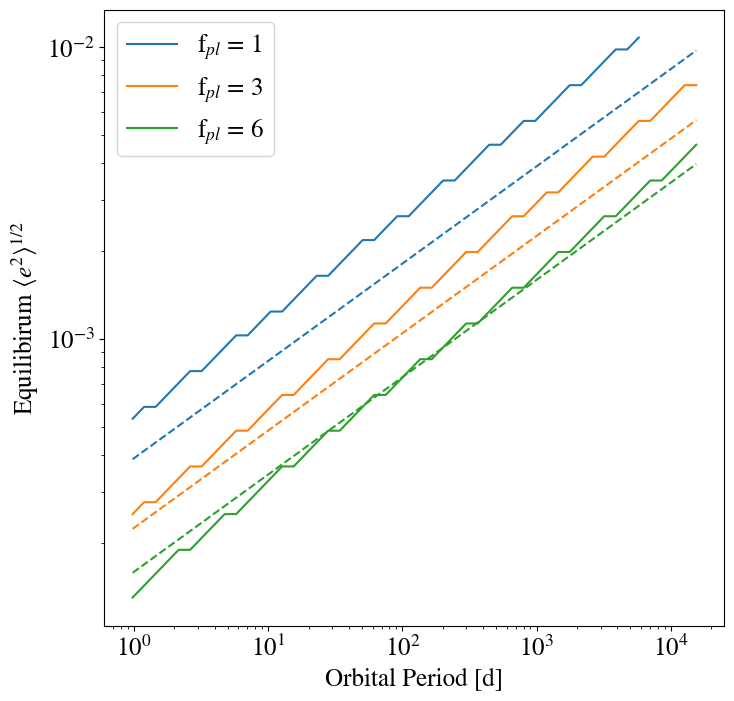
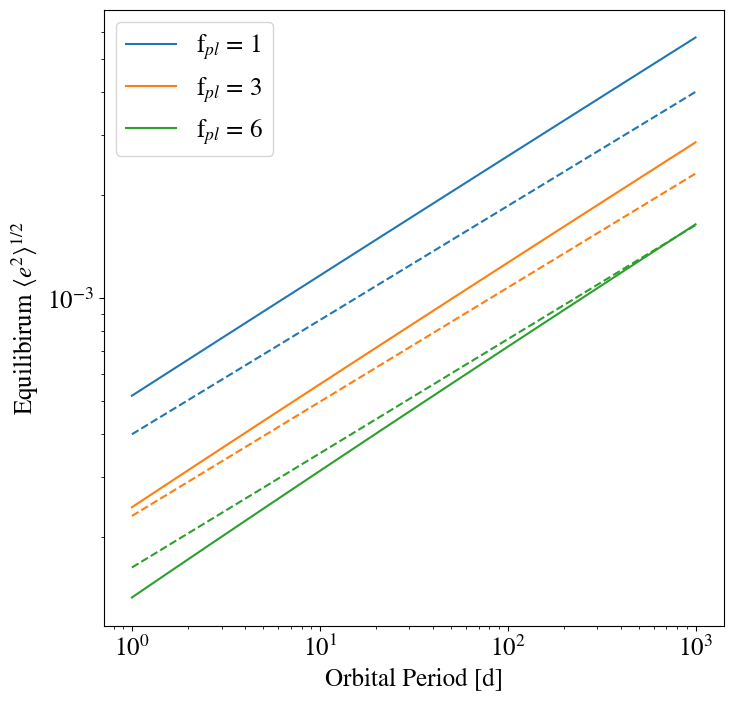
Calculate relaxation and collision time crossing properly

diff --git a/makeFig.py b/makeFig.py
@@ -36,9 +36,9 @@ def lnLam(b1, b2):
     return quad(lambda x: 1/x, b1, b2)[0]
 
 sigma1 = 6
-f_disk = 1
+f_disk = 0.13
 h = 1
-alpha = 1
+alpha = 3/2
 
 # Values for M stars from Backus + Quinn 2016
 q = 0.59
@@ -60,12 +60,12 @@ def e_i(e_h):
 def e_h(e):
     return e*(mp/(3*m_central))**(-1/3)
 
-a_vals_au = np.logspace(-2, 0.5)
-e_h_vals = np.logspace(0, 2)
+t_orbit_d = np.logspace(0, 3)
+t_orbit = (t_orbit_d*u.d).to(u.s).value
+a_vals = pt.sma(t_orbit, m_central)
+a_vals_au = (a_vals*u.cm).to(u.AU).value
 
-a_vals = (a_vals_au*u.AU).to(u.cm).value
-t_orbit = pt.t_orb(a_vals, m_central)
-t_orbit_d = (t_orbit*u.s).to(u.d).value
+e_h_vals = np.logspace(0, 2)
 
 sigma_pl = pt.sigma_pl(alpha, sigma1, a_vals_au, f_disk)
 
@@ -77,47 +77,28 @@ def plot_trel_tcoll_eq_gf():
 	if not clobber and os.path.exists(file_str):
 		return
 
-	t_relax_vals = np.empty((len(a_vals_au), len(e_h_vals)))
-	t_coll_vals = np.empty((len(a_vals_au), len(e_h_vals)))
-	t_eq_e_vals = np.empty((len(f_pl), len(a_vals_au)))
+	def func(x, sigma_pl, a_val, f_pl_val):
+	    i_std = 10**x/2
+	    vk = np.sqrt(G.cgs.value*m_central/a_val)
+	    v = np.sqrt((10**x)**2 + i_std**2)*vk
+	    vesc = np.sqrt(G.cgs.value*mp/Rp)
+	    bmin = 2*G.cgs.value*mp/v**2
+	    bmax = a_val
+	    lnLamVal = lnLam(bmin, bmax)
+	    
+	    return np.log10((v**4*(f_pl_val*Rp)**2*(1 + vesc**2/v**2))/(G.cgs.value**2*mp**2*lnLamVal))
 
-	for f_pl_idx in range(len(f_pl)):
-	    for idx in range(len(a_vals)):
-	        for idx1 in range(len(e_h_vals)):
-	            e_std = e_i(e_h_vals[idx1])
-	            i_std = e_std/2
-	            omega = np.sqrt(G.cgs.value*m_central/a_vals[idx]**3)
-	            vk = np.sqrt(G.cgs.value*m_central/a_vals[idx])
-	            sigma = np.sqrt(e_std**2 + i_std**2)*vk
-	            n = sigma_pl[idx]*omega/(2*mp*sigma)
-
-	            bmin = 2*G.cgs.value*mp/sigma**2
-	            bmax = a_vals[idx]
-	            lnLamVal = lnLam(bmin, bmax)
-	            t_relax = sigma**3/(n*np.pi*G.cgs.value**2*mp**2*lnLamVal)
-	            t_relax_vals[idx][idx1] = t_relax
-
-	            vesc = np.sqrt(G.cgs.value*mp/Rp)
-	            theta = vesc/sigma
-	            cross = np.pi*(Rp*f_pl[f_pl_idx])**2*(1 + theta**2)
-	            t_coll_vals[idx][idx1] = 1/(n*cross*sigma)
-
-	        first_ind = np.where(t_relax_vals[idx] > t_coll_vals[idx])[0]
-	        if len(first_ind) > 0:
-	            t_eq_e_vals[f_pl_idx][idx] = e_i(e_h_vals[first_ind][0])
-	        else:
-	            t_eq_e_vals[f_pl_idx][idx] = np.inf
-
+	e_cross_vals = np.zeros((len(f_pl), len(a_vals_au)))
 	e_gf_vals = np.empty((len(f_pl), len(a_vals)))
-
 	for f_pl_idx in range(len(f_pl)):
 	    for idx in range(len(a_vals)):
+	        e_cross_vals[f_pl_idx][idx] = 10**optimize.root(func, -3.0, args=(sigma_pl[idx], a_vals[idx], f_pl[f_pl_idx])).x
 	        e_gf_vals[f_pl_idx][idx] = np.sqrt(4*mp*a_vals[idx]/(3*m_central*(f_pl[f_pl_idx]*Rp)))
 
 	fig, axes = plt.subplots(figsize=(8,8))
 	for idx, val in enumerate(f_pl):
 	    c = next(axes._get_lines.prop_cycler)['color']
-	    axes.plot(t_orbit_d, t_eq_e_vals[idx], label=r'f$_{pl}$ = ' + str(int(val)), linestyle='-', color=c)
+	    axes.plot(t_orbit_d, e_cross_vals[idx], label=r'f$_{pl}$ = ' + str(int(val)), linestyle='-', color=c)
 	    axes.plot(t_orbit_d, e_gf_vals[idx], linestyle='--', color=c)
 	axes.legend()
 	axes.set_xscale('log')
@@ -142,7 +123,8 @@ def plot_m_iso():
 	m_iso_vals = np.empty((len(a_vals_au), len(e_h_vals)))
 	for idx in range(len(a_vals)):
 	    for idx1 in range(len(e_h_vals)):
-	        m_iso_vals[idx][idx1] = 10**optimize.root(func, 20, args=(e_i(e_h_vals[idx1]), sigma_pl[idx], a_vals[idx])).x
+	        m_iso_vals[idx][idx1] = 10**optimize.root(func, 20, args=(e_i(e_h_vals[idx1]), \
+	        	                                                      sigma_pl[idx], a_vals[idx])).x
 
 	e_eq_vals = np.empty((len(dust_to_gas), len(t_orbit)))
 	for idx in range(len(dust_to_gas)):
@@ -153,7 +135,7 @@ def plot_m_iso():
 
 	from matplotlib import cm
 	fig, axes = plt.subplots(figsize=(8,8))
-	cmap = mpl.cm.get_cmap('jet', 10)
+	cmap = mpl.cm.get_cmap('inferno_r', 10)
 	cax = axes.pcolormesh(t_orbit_d, e_i(e_h_vals), np.flipud(np.rot90(m_iso_vals)), \
 	                      norm=mpl.colors.LogNorm(), cmap=cmap)
 	for idx in range(len(dust_to_gas)):
@@ -216,6 +198,6 @@ def make_plot():
 
 	plt.savefig(file_str, format=fmt, bbox_inches='tight')
 
-#plot_trel_tcoll_eq_gf()
+plot_trel_tcoll_eq_gf()
 plot_m_iso()
-#plot_gasdrag()
+plot_gasdrag()
